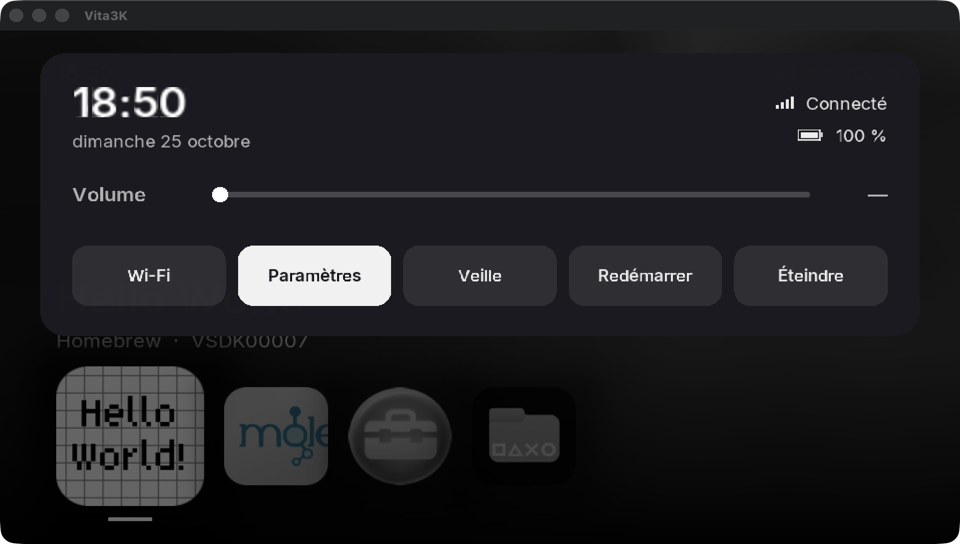
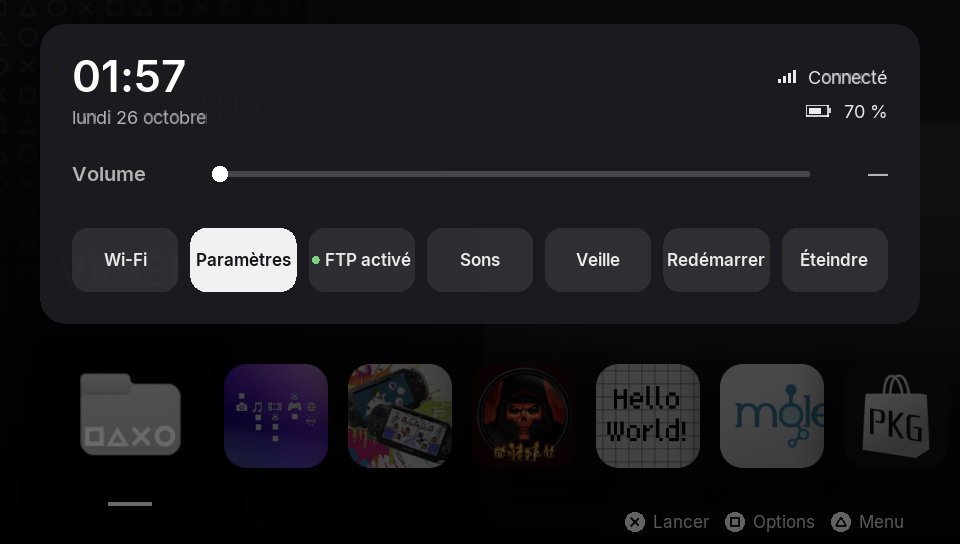
README pour GitHub et nouvelles captures
Captures Vita3K à la définition de la Vita (960x544) : accueil, grande
image de fond, panneau rapide, fiche d'appli et écran de veille.

diff --git a/README.md b/README.md
@@ -1,44 +1,82 @@
-# Vita Launcher
+<h1 align="center">Vita Launcher</h1>
 
-Un launcher pour PS Vita modifiée, inspiré de l'écran d'accueil de la PS5.
-*A PS5-style home screen homebrew for the PS Vita.*
+<p align="center">
+  Un écran d'accueil façon PS5 pour PS Vita modifiée.<br>
+  <em>A PS5-style home screen homebrew for the PS Vita.</em>
+</p>
 
-![Accueil](docs/home.png)
-![Panneau rapide](docs/panel.png)
-![Fiche d'appli](docs/sheet.png)
+<p align="center">
+  <img src="https://img.shields.io/badge/plateforme-PS%20Vita-003791" alt="Plateforme : PS Vita">
+  <img src="https://img.shields.io/badge/langage-C-555" alt="Langage : C">
+  <a href="LICENSE"><img src="https://img.shields.io/badge/licence-MIT-2ea44f" alt="Licence MIT"></a>
+</p>
+
+<p align="center">
+  <img src="docs/games.png" width="800" alt="Accueil : onglet Jeux, The Binding of Isaac sélectionné avec sa jaquette">
+</p>
+
+<table>
+  <tr>
+    <td width="50%"><img src="docs/hero.png" alt="Grande image de fond de VitaShell derrière la rangée d'applis"><br><sub><b>Grande image de fond</b> : celle de l'appli, quand elle est lisible</sub></td>
+    <td width="50%"><img src="docs/panel.png" alt="Panneau rapide : heure, Wi-Fi, batterie, volume et tuiles"><br><sub><b>Panneau rapide</b> (△) : volume, FTP, sons, veille, extinction</sub></td>
+  </tr>
+  <tr>
+    <td><img src="docs/sheet.png" alt="Fiche d'appli : lancer, épingler, désinstaller"><br><sub><b>Fiche d'appli</b> (▢) : lancer, épingler, désinstaller</sub></td>
+    <td><img src="docs/ambient.png" alt="Écran de veille : grande horloge sur le fond assombri"><br><sub><b>Écran de veille</b> : après une minute sans rien toucher</sub></td>
+  </tr>
+</table>
 
 ## Fonctionnalités
 
-- **Accueil** : rangée des applis installées. L'icône sélectionnée grossit, le fond prend sa couleur dominante et une version floue de son icône. Les applis épinglées passent en tête, puis les dernières lancées, puis le reste par ordre alphabétique.
-- **Jaquettes** : les jeux dont l'icône est illisible (chiffrée, comme pour les jeux du commerce) reçoivent leur jaquette, téléchargée en arrière-plan depuis la base [HexFlow-Covers](https://github.com/Andiweli/HexFlow-Covers) et gardée en cache.
-- **Fiche d'appli** (▢) : version et identifiant, lancer, épingler en tête, désinstaller (avec confirmation).
-- **Panneau rapide** (△ ou glisser depuis le haut de l'écran) : heure et date, Wi-Fi, batterie et autonomie, volume, raccourcis vers les Paramètres et le Wi-Fi, FTP, veille, redémarrage et extinction (avec confirmation).
-- **FTP intégré** (tuile du panneau) : transférer des fichiers sans passer par VitaShell, tant que le launcher est ouvert. L'adresse s'affiche à côté de l'heure. Seules les partitions utiles sont exposées (ux0, ur0, uma0, imc0, grw0, ud0), pas les partitions système. Le réglage est retenu ; le serveur repart tout seul après une mise en pause (bouton PS, veille).
-- **Commandes** : croix ou joystick gauche pour naviguer, L/R pour sauter de 5, ✕ pour lancer, aides affichées en bas de l'écran. Au tactile : toucher pour sélectionner, toucher à nouveau pour lancer, glisser pour défiler.
+### Accueil
+
+- **Deux onglets**, Jeux et Applis, chacun avec sa rangée. Les applis épinglées passent en tête, puis les dernières lancées, puis le reste par ordre alphabétique.
+- **Le fond suit l'appli sélectionnée** : sa couleur dominante et une version floue de son icône, ou sa grande image quand elle est lisible (homebrews et bulles PSP : `pic0.png`, sinon le fond de la LiveArea). Il bouge légèrement quand on incline la console.
+- **Sous le titre** : type, identifiant et temps de jeu, noté par le plugin de démarrage.
+- **Jaquettes** : les jeux dont l'icône est illisible (chiffrée, comme pour les jeux du commerce) reçoivent leur jaquette, téléchargée en arrière-plan depuis [HexFlow-Covers](https://github.com/Andiweli/HexFlow-Covers) et gardée en cache.
+- **Démarrage rapide** même avec beaucoup d'applis : les icônes arrivent progressivement. Les titres japonais, chinois ou coréens utilisent la police système de la Vita.
+
+### Jeux
+
+- **PS Vita** : les jeux installés, avec leur jaquette.
+- **PSP** : par les bulles d'Adrenaline Bubble Manager.
+- **GBA et PS1** : les ROMs déposées dans `ux0:roms/gba` et `ux0:roms/ps1` se lancent dans RetroArch (cœurs gpSP et PCSX ReARMed), avec les jaquettes de [libretro-thumbnails](https://github.com/libretro-thumbnails).
+
+### Confort
+
+- **Sons** : petits sons de navigation, d'ouverture et de lancement, synthétisés par le launcher. La tuile Sons du panneau les coupe.
+- **Écran de veille** : après une minute sans rien toucher, l'interface s'efface, le fond dérive lentement et l'heure se promène, pour ne pas marquer l'écran OLED. Le premier appui ne fait que le réveiller.
+- **Aucun appui perdu** : un appui bref pendant une image lente, ou gauche puis droite enchaînés sans repasser par le neutre, comptent toujours.
+
+### Système
+
+- **Panneau rapide** (△, ou glisser depuis le haut de l'écran) : heure et date, Wi-Fi, batterie et autonomie, volume, raccourcis vers les Paramètres et le Wi-Fi, FTP, sons, veille, redémarrage et extinction (avec confirmation).
+- **FTP intégré** : transférer des fichiers sans passer par VitaShell, tant que le launcher est ouvert. L'adresse s'affiche à côté de l'heure. Seules les partitions utiles sont exposées (ux0, ur0, uma0, imc0, grw0, ud0), jamais les partitions système. Le serveur repart tout seul après une mise en pause (bouton PS, veille).
 - **Interface principale** (plugin optionnel `launcher_boot.suprx`) : le launcher démarre avec la console et revient tout seul quand on quitte un jeu ou une appli. Si on ferme le launcher lui-même, on reste sur l'accueil Sony.
-- Les icônes se chargent progressivement, le démarrage reste rapide même avec beaucoup d'applis. Les titres japonais, chinois ou coréens utilisent la police système de la Vita.
 
-Réglages enregistrés dans `ux0:data/vita-launcher/` (épinglées, récentes, cache des jaquettes).
+Les réglages sont retenus dans `ux0:data/vita-launcher/` : épinglées, récentes, temps de jeu, FTP, sons, cache des jaquettes.
 
-## État
+## Commandes
 
-En développement. Tourne sur une vraie PS Vita (PCH-2000, 3.60 HENkaku) : affichage, icônes, jaquettes, lancement des applis et plugin de démarrage validés. Le volume, l'alimentation, la désinstallation et la police japonaise restent à valider sur le matériel.
+| Commande | Action |
+| --- | --- |
+| Croix, joystick gauche | Naviguer |
+| L / R | Changer d'onglet |
+| ✕ | Lancer |
+| ▢ | Fiche de l'appli |
+| △ | Panneau rapide |
+| ◯ | Fermer le panneau ou la fiche |
+| Toucher une icône | La sélectionner, toucher à nouveau pour lancer |
+| Glisser | Faire défiler la rangée ; depuis le haut de l'écran, ouvrir le panneau |
 
-## Prérequis
+## Installation
 
-Une PS Vita sous HENkaku/Ensō avec *Enable Unsafe Homebrew* activé dans les paramètres HENkaku.
+Il faut une PS Vita sous HENkaku/Ensō, avec *Enable Unsafe Homebrew* activé dans les paramètres HENkaku.
 
-## Compiler
+1. [Compiler](#compiler), puis installer `build/launcher.vpk` avec VitaShell.
+2. Facultatif : en faire l'interface principale (ci-dessous).
 
-Avec [VitaSDK](https://vitasdk.org) installé (`VITASDK` défini) et ses paquets `libvita2d`, `freetype` et `curl-mbedtls` (`vdpm install libvita2d freetype curl-mbedtls`) :
-
-```sh
-cmake -S . -B build && cmake --build build
-```
-
-Le paquet à installer avec VitaShell est `build/launcher.vpk`.
-
-## En faire l'interface principale
+### En faire l'interface principale
 
 Copier `build/launcher_boot.suprx` dans `ur0:tai/`, puis ajouter cette ligne sous `*main` dans `ur0:tai/config.txt` (garder une copie de l'ancien fichier) et redémarrer :
 
@@ -47,9 +85,22 @@ Copier `build/launcher_boot.suprx` dans `ur0:tai/`, puis ajouter cette ligne sou
 ur0:tai/launcher_boot.suprx
 ```
 
-Le plugin attend que l'accueil soit prêt (même méthode qu'[AutoBoot](https://github.com/Rinnegatamante/AutoBoot)), lance le launcher, puis le relance chaque fois qu'une autre appli se ferme. C'est aussi lui qui lance les applis choisies dans le launcher : il ferme le launcher puis démarre l'appli, ce qui évite la confirmation « fermer l'appli en cours ? » de l'accueil Sony. L'accueil Sony reste visible environ 2 secondes entre les deux : le système ignore les lancements pendant ce temps. En cas de souci au démarrage : éteindre, rallumer en maintenant L jusqu'à l'accueil (les plugins ne se chargent pas), puis retirer la ligne.
+Le plugin attend que l'accueil soit prêt (même méthode qu'[AutoBoot](https://github.com/Rinnegatamante/AutoBoot)), lance le launcher, puis le relance chaque fois qu'une autre appli se ferme. C'est aussi lui qui lance les applis choisies dans le launcher : il ferme le launcher puis démarre l'appli, ce qui évite la confirmation « fermer l'appli en cours ? » de l'accueil Sony. L'accueil Sony reste visible environ 2 secondes entre les deux : le système ignore les lancements pendant ce temps.
 
-## Mettre à jour sur la console
+> [!TIP]
+> En cas de souci au démarrage : éteindre, rallumer en maintenant L jusqu'à l'accueil (les plugins ne se chargent pas), puis retirer la ligne.
+
+## Développement
+
+### Compiler
+
+Avec [VitaSDK](https://vitasdk.org) installé (`VITASDK` défini) et ses paquets `libvita2d`, `freetype` et `curl-mbedtls` (`vdpm install libvita2d freetype curl-mbedtls`) :
+
+```sh
+cmake -S . -B build && cmake --build build
+```
+
+### Mettre à jour sur la console
 
 Avec le plugin installé et le FTP du launcher allumé :
 
@@ -59,30 +110,43 @@ tools/deploy.sh 192.168.1.10:1337
 
 Le script compile, dépose le nouvel `eboot.bin` dans `ux0:data/vita-launcher/` et envoie la commande FTP `RELOAD`. Le dossier d'une appli étant verrouillé tant qu'elle tourne, c'est le plugin qui ferme le launcher, met le fichier en place (l'ancien est remis en cas d'échec, résultat dans `update.log`) et le relance. Le script vérifie ensuite que la console a bien la nouvelle version. Les changements d'images ou de polices demandent toujours le VPK.
 
-## Aperçu sur Mac avec Vita3K
+### Aperçu sur Mac avec Vita3K
 
 ```sh
 tools/pull-preview.sh 192.168.1.10:1337   # récupère nom et icône des applis de la console (FTP de VitaShell)
 tools/preview.sh                          # compile, lance dans Vita3K, capture dans build-preview/shot.png
 tools/preview.sh panel                    # pareil, panneau rapide ouvert
 tools/preview.sh sheet                    # pareil, fiche de la première appli ouverte
+tools/preview.sh 80                       # capture après 80 s : écran de veille
 ```
 
-Vita3K doit être dans `~/Applications`. Les images de la bulle se régénèrent avec `python3 tools/make_assets.py` (pngquant requis : la Vita exige des PNG 8 bits indexés).
+Vita3K doit être dans `~/Applications`. Il prend le clavier à son lancement : taper ailleurs pendant une capture peut déplacer la sélection. Les images de la bulle se régénèrent avec `python3 tools/make_assets.py` (pngquant requis : la Vita exige des PNG 8 bits indexés).
 
-## Tests
+### Tests
 
 ```sh
 cc test/test_sfo.c src/sfo.c -o build/test_sfo && build/test_sfo
 cc test/test_idlist.c src/idlist.c -o build/test_idlist && build/test_idlist
+cc -idirafter $VITASDK/arm-vita-eabi/include test/test_input.c src/input.c -o build/test_input && build/test_input
 ```
 
-## Suite prévue
+## État
 
-- Jeux PSP et PS1 (via Adrenaline)
+En développement. Tourne sur une vraie PS Vita (PCH-2000, 3.60 HENkaku) : affichage, icônes, jaquettes, lancement des applis, plugin de démarrage et sons validés. Le volume, l'alimentation, la désinstallation, la police japonaise, l'effet d'inclinaison (sens et amplitude) et la grande image de fond restent à valider sur le matériel.
+
+### Suite prévue
+
+- Jeux PSP sans bulle (ISO lancés directement dans Adrenaline)
+- Page « Ta semaine » : temps de jeu cumulé, jeu le plus joué
 - Boutique : catalogue VitaDB, installation et mises à jour
 - Bouton PS qui ramène au launcher plutôt qu'à l'accueil Sony
 
-## Licence
+## Licence et crédits
 
-MIT, voir [LICENSE](LICENSE). Police [Inter](https://rsms.me/inter/) sous SIL Open Font License 1.1 (`fonts/OFL.txt`). Certificats racines de Mozilla (`certs/cacert.pem`, MPL 2.0, via [curl](https://curl.se/docs/caextract.html)). Jaquettes de [HexFlow-Covers](https://github.com/Andiweli/HexFlow-Covers), téléchargées à l'usage et non incluses. Serveur FTP [libftpvita](https://github.com/xerpi/libftpvita) de Sergi Granell (MIT, `third_party/ftpvita/LICENSE`, en-tête adapté au VitaSDK récent). Construit avec [VitaSDK](https://vitasdk.org), [vita2d](https://github.com/xerpi/libvita2d) et libcurl.
+MIT, voir [LICENSE](LICENSE).
+
+- Police [Inter](https://rsms.me/inter/) sous SIL Open Font License 1.1 (`fonts/OFL.txt`).
+- Certificats racines de Mozilla (`certs/cacert.pem`, MPL 2.0, via [curl](https://curl.se/docs/caextract.html)).
+- Jaquettes de [HexFlow-Covers](https://github.com/Andiweli/HexFlow-Covers) et [libretro-thumbnails](https://github.com/libretro-thumbnails), téléchargées à l'usage et non incluses.
+- Serveur FTP [libftpvita](https://github.com/xerpi/libftpvita) de Sergi Granell (MIT, `third_party/ftpvita/LICENSE`, en-tête adapté au VitaSDK récent).
+- Construit avec [VitaSDK](https://vitasdk.org), [vita2d](https://github.com/xerpi/libvita2d) et libcurl.
